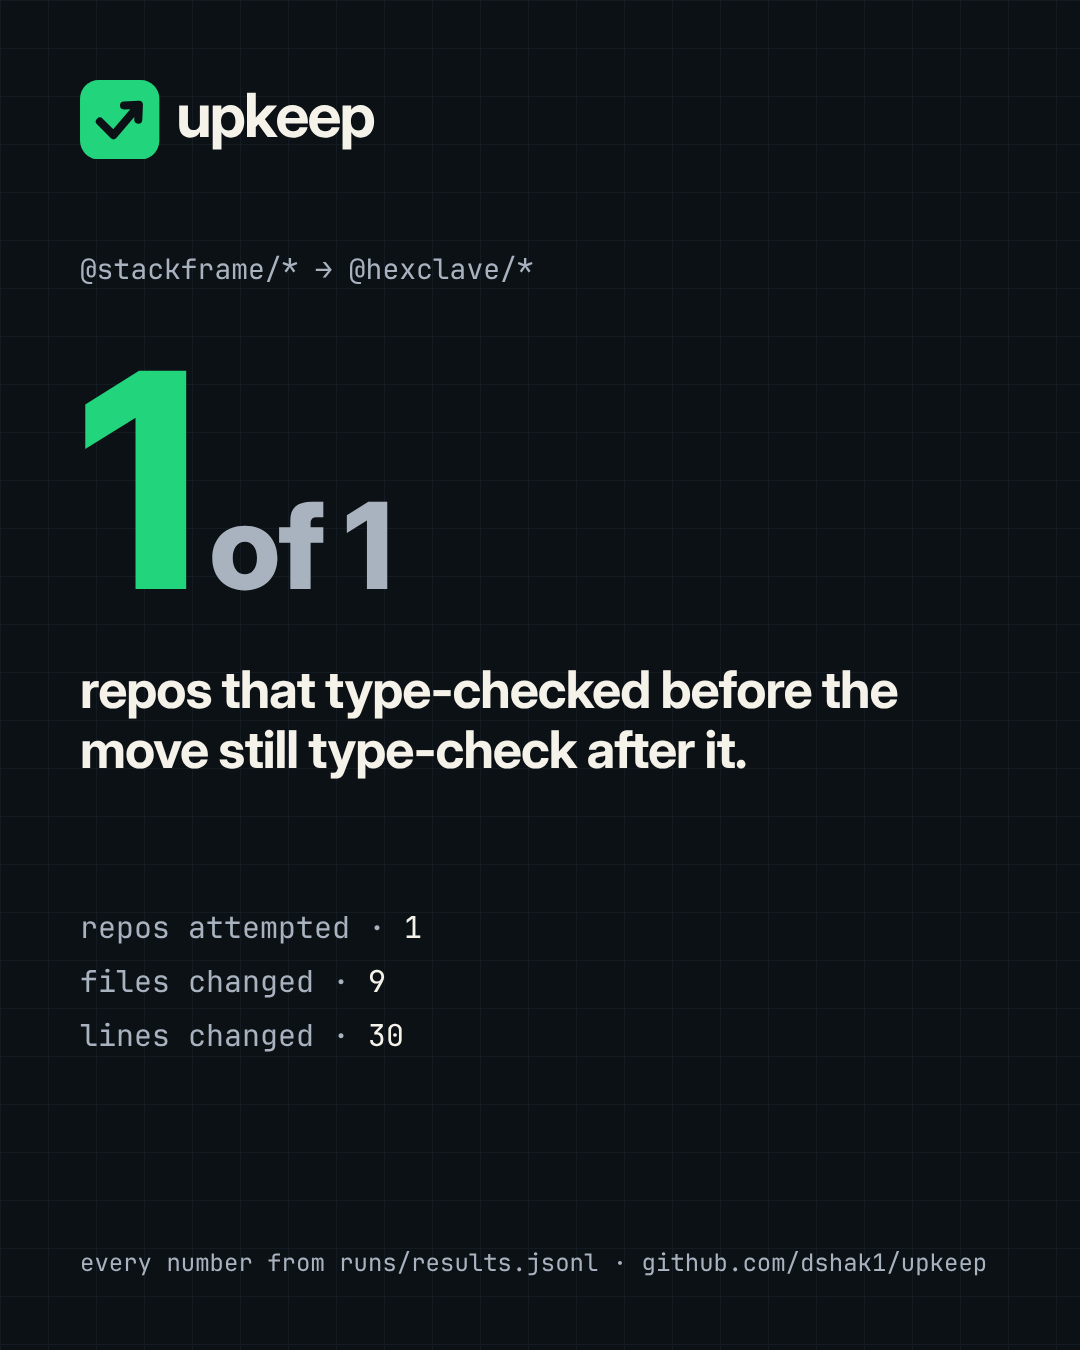
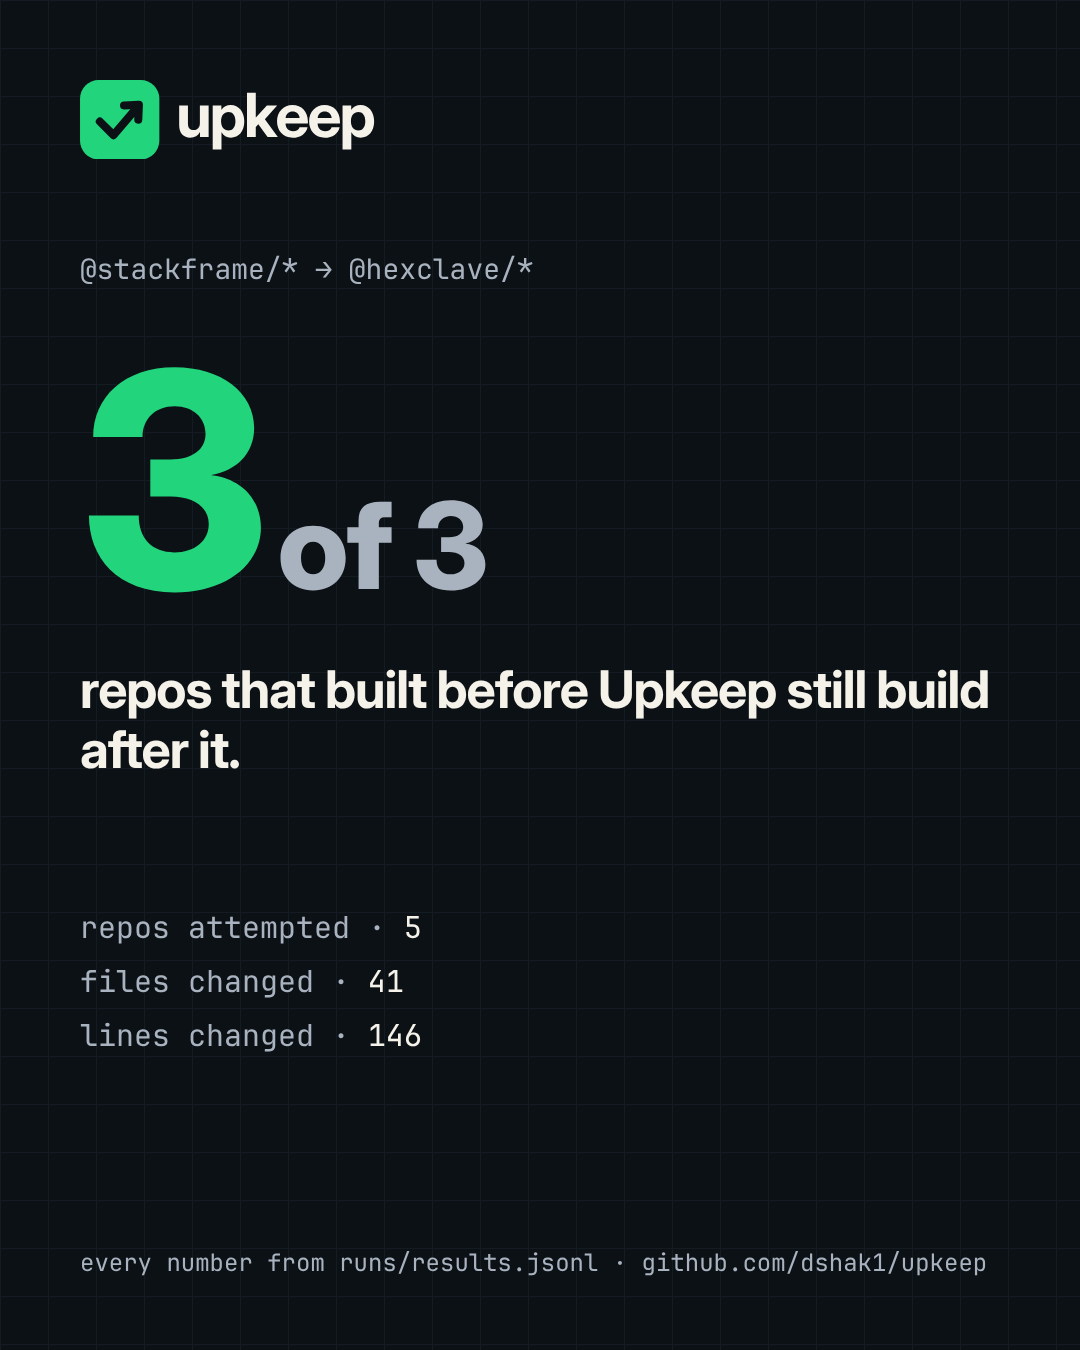
Brand kit: re-render cards from current results, count like the README report
brand/render.mjs now keeps the last run per repo and counts a repo when its build is green, the same rule as src/report.ts, so the scoreboard reads 3 of 3 with 5 attempted, matching the README. Adds receipt cards for aziontech/azion-samples and makcimerrr/admin-dashboard, and updates the numbers in CAMPAIGN.md to the current results.

Claude-Session: https://claude.ai/code/session_01XcNpfZ3xtCrvoc3dnK7YMo

Changed region(s): [[0.0611, 0.4978, 0.9167, 0.5911], [0.0611, 0.2489, 0.4583, 0.4356], [0.3361, 0.7156, 0.3972, 0.7778]]

diff --git a/brand/CAMPAIGN.md b/brand/CAMPAIGN.md
@@ -2,8 +2,9 @@
 
 ## Where we actually are (2026-11-11)
 
-From `runs/results.jsonl`: 1 repo attempted, 1 moved, type check and build green before and after, 9 files, +15 / -15,
-0 left for a human. 13 more repos are queued in `targets/hexclave.tsv`.
+From `runs/results.jsonl` (last run per repo): 5 repos attempted, 3 built before the move, and all 3 still build after it
+with none of the old package left (41 files, 146 lines changed across the 3). 9 more repos are queued in
+`targets/hexclave.tsv`.
 
 Users: none yet, and nothing measures them yet. So the campaign does not lead with user numbers. It leads with the one
 thing nobody else in this space shows: the receipt. Every week the scoreboard grows from real runs, and the follower
@@ -56,13 +57,13 @@ the buyer. Stars and followers are how they hear about us.
 
 > First receipt: hexclave/multi-tenant-starter-template
 > 9 files, +15 / -15
-> type check: green 3.1s → green 3.1s
-> build: green 43.8s → green 47.3s
+> type check: green 2.2s → green 4.9s
+> build: green 22s → green 24.6s
 > left for a human: 0
 > [card-hexclave__multi-tenant-starter-template.png]
 
 > The build runs in a sandbox: no network, empty home dir. If the move broke something, the after column goes red and we
-> say so. Next: the other 13 repos on the list. Scoreboard every week.
+> say so. Next: the other 9 repos on the list. Scoreboard every week.
 > github.com/dshak1/upkeep
 
 **Day 1, LinkedIn (each founder, personal)**
@@ -73,7 +74,8 @@ the buyer. Stars and followers are how they hear about us.
 > proof instead: Upkeep runs the repo's own type check and build before the move and after it, in a sandbox, and
 > publishes both.
 >
-> First repo: green before, green after, 9 files changed, nothing left for a human.
+> First 5 repos: 3 built before the move, and all 3 still build after it. The other 2 did not build before, and we show
+> those too.
 >
 > Next 30 days we run it on every public repo we can find on the old Stack Auth packages, and post every result,
 > including the red ones. Code is MIT: github.com/dshak1/upkeep
